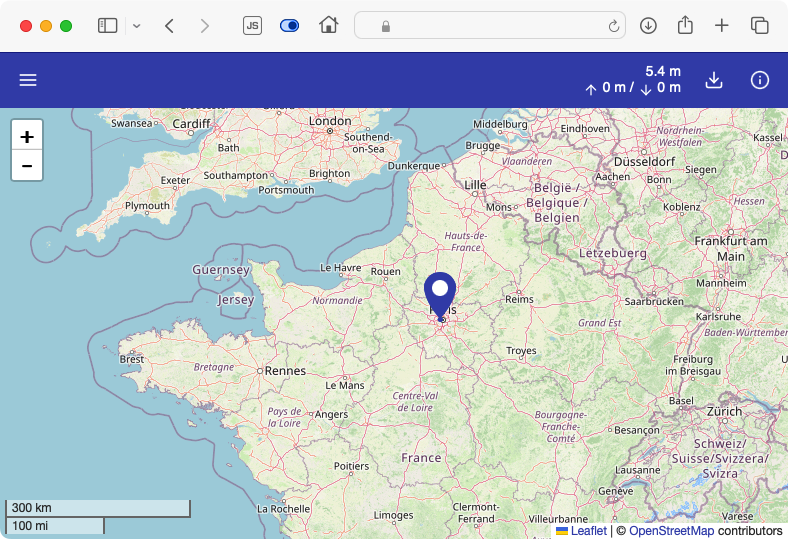
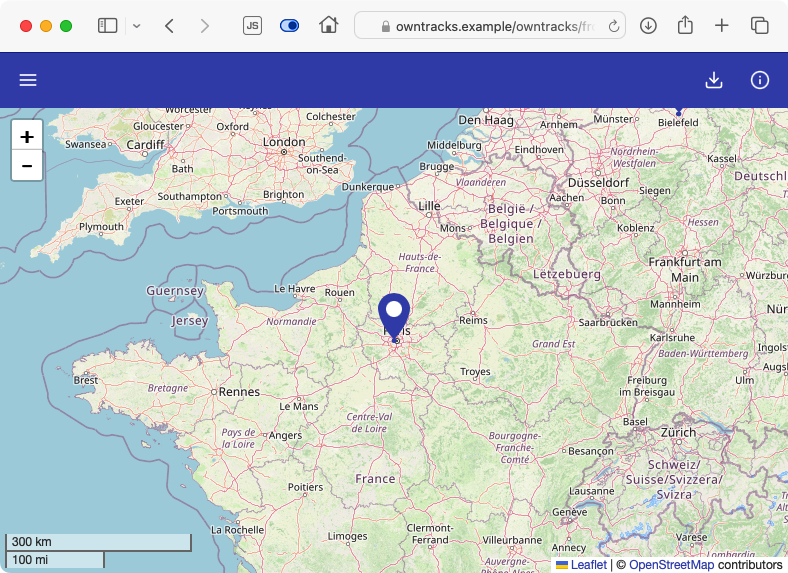
use demo domain name

diff --git a/docs/guide/quicksetup.md b/docs/guide/quicksetup.md
@@ -11,7 +11,7 @@ To get started you'll need roughly an hour of time and a bit of love of a Linux 
   - we've had very good experience with the likes of Digital Ocean; at the time of this writing they have a 512MB Debian 12 VPS which serves us very well.
   - Linode, Server4you, Hetzner, Netcup, ... look around and compare
   - we've tested this setup on Ubuntu 22.04 and on Debian 12
-- a DNS domain, something like `yourname.example.net`, which will be associated with your VPS. Some VPS providers offer one in a package with the VPS. Be that as it may, the technical jargon is you let that DNS domain and associate the IPv4 and/or IPv6 address of your VPS with `yourname.example.net`.
+- a DNS domain, something like `owntracks.example`, which will be associated with your VPS. Some VPS providers offer one in a package with the VPS. Be that as it may, the technical jargon is you let that DNS domain and associate the IPv4 and/or IPv6 address of your VPS with `owntracks.example`.
 
 Before continuing, make sure you can login to your VPS, either as `root` or as an unprivileged user.
 
@@ -24,7 +24,7 @@ Before continuing, make sure you can login to your VPS, either as `root` or as a
 
 - also make sure the DNS domain you chose is associated with your VPS. You can probably test this by using the `ping` utility from your laptop:
 
-        $ ping yourname.example.net
+        $ ping owntracks.example
         ...
 
 You should now be ready to proceed.
@@ -60,7 +60,7 @@ You are logged into your VPS either as `root` or as an unprivileged user. Three 
 
 3. the configuration file requires the following settings:
 
-      - `dns_domain` is the DNS name of your system as reacheable from the Internet. You will set this to, say, `yourname.example.net`.
+      - `dns_domain` is the DNS name of your system as reacheable from the Internet. You will set this to, say, `owntracks.example`.
       - `email` is the email address which we will use when enrolling a Let's Encrypt certificate on your behalf. We don't use this for anything else, and Let's Encrypt will send you mail only when your certificate is about to expire.
       - we strongly recommend you sign up for the free reverse geo service at [OpenCage](https://opencagedata.com/). It's free of charge, and they provide you with an API key you add to `opencage_apikey`. This is used in determining address information for locations (example below), and we configure your OwnTracks Android app to use it.
       - `friends` is an array of users who will be supported on your system. It will typically contain just yourself, but you might wish to have family members, relatives, or friends use OwnTracks on your system.
@@ -83,7 +83,7 @@ Assuming the installer was successful, you can verify if the services are workin
 
 - install OwnTracks on your Android or iOS device and configure it, either by
    - send yourself one of the files from `/usr/local/owntracks/userdata/*.otrc`
-   - visit `https://yourname.example.com/owntracks/` and login with your username (from the friends list in `configuration.yaml`) and the corresponding password from `/usr/local/owntracks/userdata/*.pass`. At the bottom of the page is a link you can click on from your Android/iOS device to automatically configure the app.
+   - visit `https://owntracks.example/owntracks/` and login with your username (from the friends list in `configuration.yaml`) and the corresponding password from `/usr/local/owntracks/userdata/*.pass`. At the bottom of the page is a link you can click on from your Android/iOS device to automatically configure the app.
 - in the app on the smartphone, click on publish 
    FIXME: screenshots
 - back on your VPS, use the following pre-configured utility to subscribe to your MQTT broker; by pre-configured we mean you won't need to specify username, password, hosts, etc:
@@ -166,6 +166,6 @@ Assuming the installer was successful, you can verify if the services are workin
 
 - the data you obtain locally from our Recorder is also available [via its API](https://github.com/owntracks/recorder/blob/master/API.md)
 
-        curl -u jane -sSf 'https://yourname.example.net/owntracks/api/0/locations' -d user=jane -d device=nokia
+        curl -u jane -sSf 'https://owntracks.example/owntracks/api/0/locations' -d user=jane -d device=nokia
         Enter host password for user 'jane':
         {"count":1,"data":[{"_type":"location","SSID":"mywifi","alt":154,"batt":53,"conn":"w","lat":48.856826,"lon":2.292713,"tid":"j1","tst":1706858149,"vel":0,"ghash":"u09tunj","cc":"FR","addr":"11 Av de Suffren, 75007 Paris, France","locality":"Paris","isorcv":"2024-02-02T07:15:49Z","isotst":"2024-02-02T07:15:49Z","disptst":"2024-02-02 07:15:49"}],"status":200}
